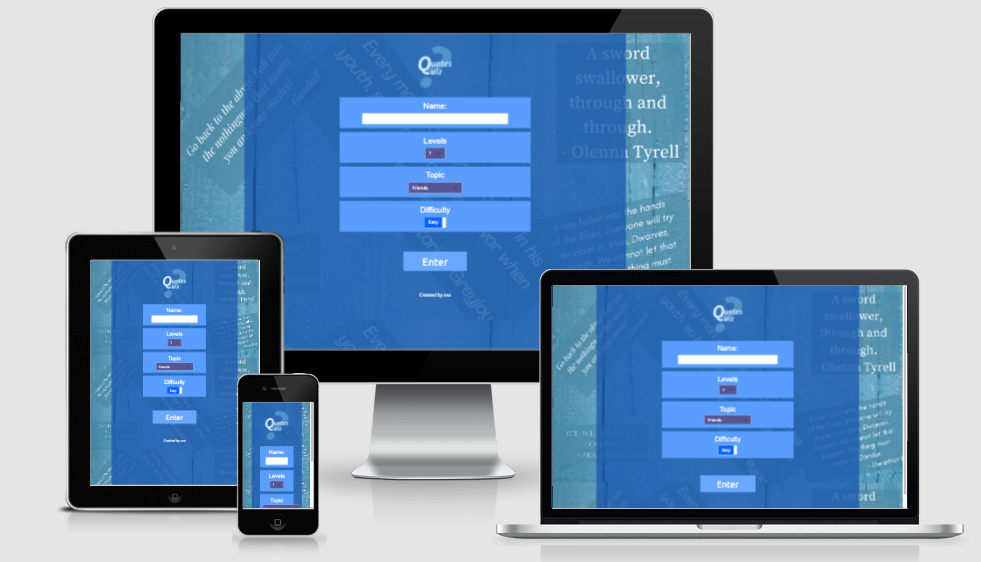
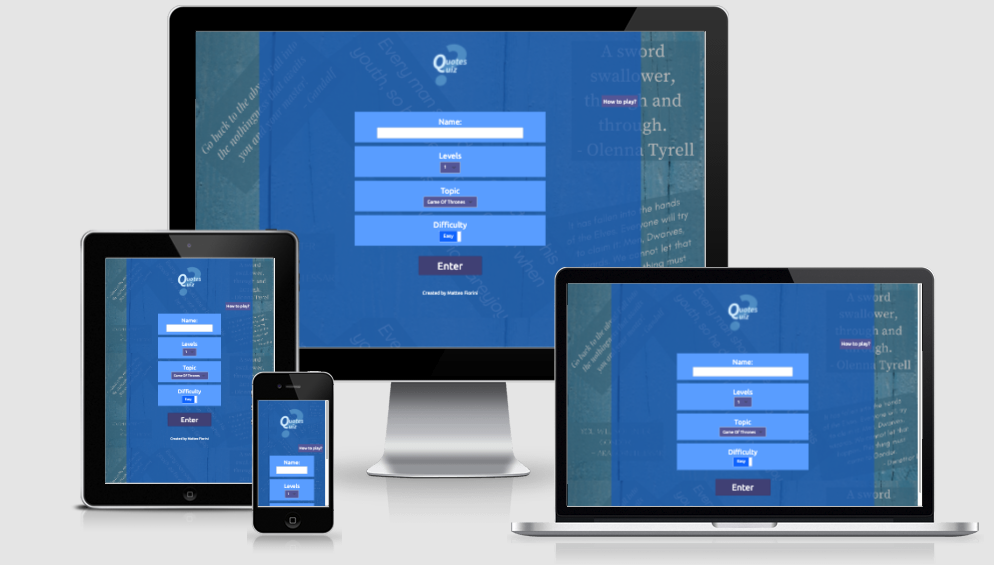
fix: fixed bug for lotr and bb getquote function

Changed region(s): [[0.0612, 0.0, 0.9786, 0.968], [0.3364, 0.0907, 0.3976, 0.121]]

diff --git a/assets/js/script.js b/assets/js/script.js
@@ -21,19 +21,19 @@ var span = document.getElementsByClassName("close")[0];
 // When the user clicks the button, open the modal 
 paragraph.onclick = function () {
     modal.style.display = "block";
-}
+};
 
 // When the user clicks on <span> (x), close the modal
 span.onclick = function () {
     modal.style.display = "none";
-}
+};
 
 // When the user clicks anywhere outside of the modal, close it
 window.onclick = function (event) {
     if (event.target == modal) {
         modal.style.display = "none";
     }
-}
+};
 
 // The start funcion is called when the page is initially loaded and at the end of each game (after the scoreboard).
 // Its purpose is to display the initial "form" for the player to start a new game
@@ -115,7 +115,12 @@ function bigApiRequest() {
     }
     quotesRequest.onload = function () {
         if (quotesRequest.status === 200) {
-            allQuotes = $.parseJSON(quotesRequest.responseText).docs;
+            if (topic === 'lotr') {
+                allQuotes = $.parseJSON(quotesRequest.responseText).docs;
+            }
+            else if (topic === 'bb') {
+                allQuotes = $.parseJSON(quotesRequest.responseText);
+            }
 
             // once the request for all quotes is successful, get all authors
             let charactersRequest = new XMLHttpRequest();
@@ -125,7 +130,12 @@ function bigApiRequest() {
             }
             charactersRequest.onload = function () {
                 if (charactersRequest.status === 200) {
-                    allAuthors = $.parseJSON(charactersRequest.responseText).docs;
+                    if (topic === 'lotr') {
+                        allAuthors = $.parseJSON(charactersRequest.responseText).docs;
+                    }
+                    else if (topic === 'bb') {
+                        allAuthors = $.parseJSON(charactersRequest.responseText);
+                    }
                     // once the request for all authors is successful, call function that will hide initial elements
                     // and display those needed for the game
                     prepareForGame();
@@ -207,6 +217,7 @@ function playGame() {
 function getQuote() {
     let quoteId = "";
     let quoteRequest = new XMLHttpRequest();
+    console.log(allQuotes);
     switch (topic) {
 
         case 'lotr':

diff --git a/assets/css/style.css b/assets/css/style.css
@@ -19,6 +19,8 @@ body {
   background-size: 100% auto;
   min-height: 100vh;
 }
+
+/* light blue layer */
 /*https://stackoverflow.com/questions/9182978/semi-transparent-color-layer-over-background-image*/
 .layer {
   background-color: rgba(30, 101, 183, 0.8);
@@ -29,16 +31,20 @@ body {
   min-height: 100vh;
 }
 
-h1 {
-  text-align: center;
-  margin-top: 20px;
-  margin-bottom: 50px;
+/* full width layer for small screens */
+@media screen and (max-width: 480px) {
+  .layer {
+    width: 100%;
+    margin-left: 0;
+  }
 }
 
+/* class used to hide/display elements in script.js */
 .hidden {
   display: none;
 }
 
+/* used to show which one is the right answer */
 .right-answer {
   background-color: rgb(0, 59, 0);
   color: #FFF;
@@ -49,6 +55,7 @@ h1 {
   font-weight: bold;
 }
 
+/* used when the player selects the wrong answer */
 .wrong-answer {
   background-color: rgb(80, 0, 0);
   color: #FFF;
@@ -124,7 +131,6 @@ header {
   font-weight: 800;
 }
 
-
 #start-btn {
   margin-top: 20px;
   width: 200px;
@@ -140,10 +146,6 @@ header {
 .player {
   text-align: center;
 }
-
-/* .row {
-  padding-top: 20px;
-} */
 
 .form-field {
   background: rgb(100, 167, 255);
@@ -250,21 +252,9 @@ footer p {
   margin-top: 15px;
 }
 
-@media screen and (max-width: 480px) {
-  .layer {
-    width: 100%;
-    margin-left: 0;
-  }
-}
-
-/* .instructions {
-  margin-right: 10px;
-} */
-
 #instructions-p {
   font-size: larger;
   background: rgb(95, 97, 160);
-  /* width: auto; */
   width: fit-content;
   margin-right: 10px;
   margin-left: auto;

diff --git a/index.html b/index.html
@@ -21,7 +21,6 @@
     <div class="background">
         <div class="layer">
             <header>
-                <!-- <h1>QuotesQuiz</h1> -->
                 <img id="logo" alt="logo" src="assets/img/logo.png">
             </header>
 

diff --git a/README.md b/README.md
@@ -199,7 +199,6 @@ To work on the project code within a local IDE such as VSCode, Pycharm etc:
 ## Credits
 
 
-
 ### Acknowledgements
 
 The content of the deployment section of this readme.md was mostly taken from [this webinar](https://www.youtube.com/watch?v=7BteidgLAyM).
